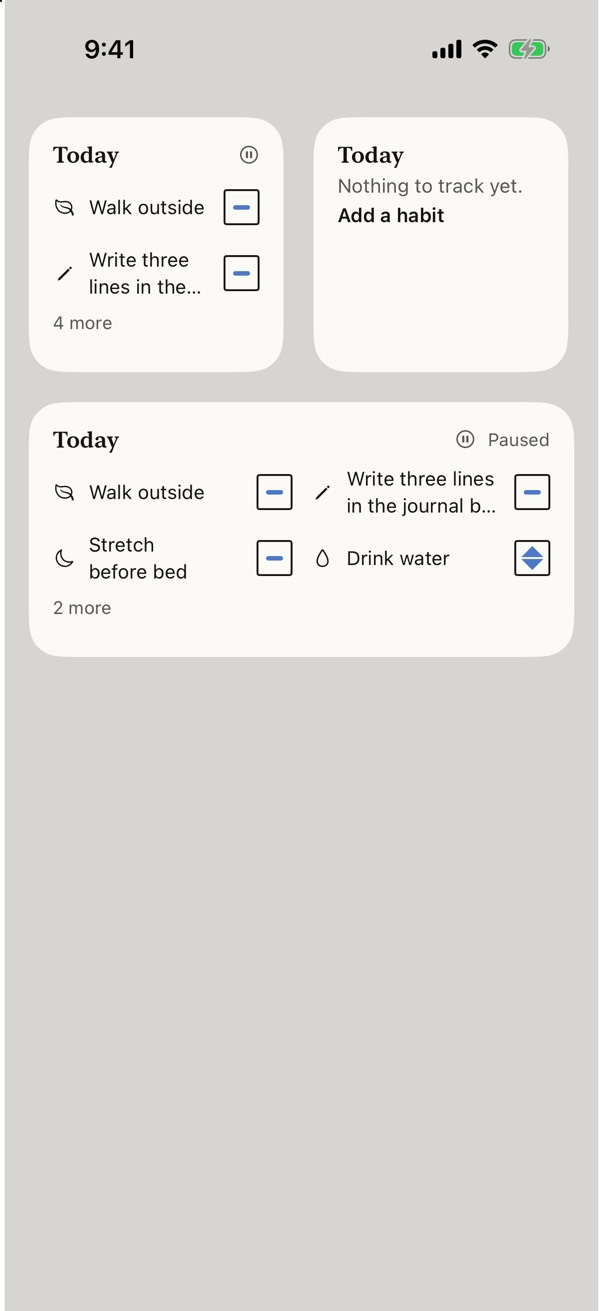
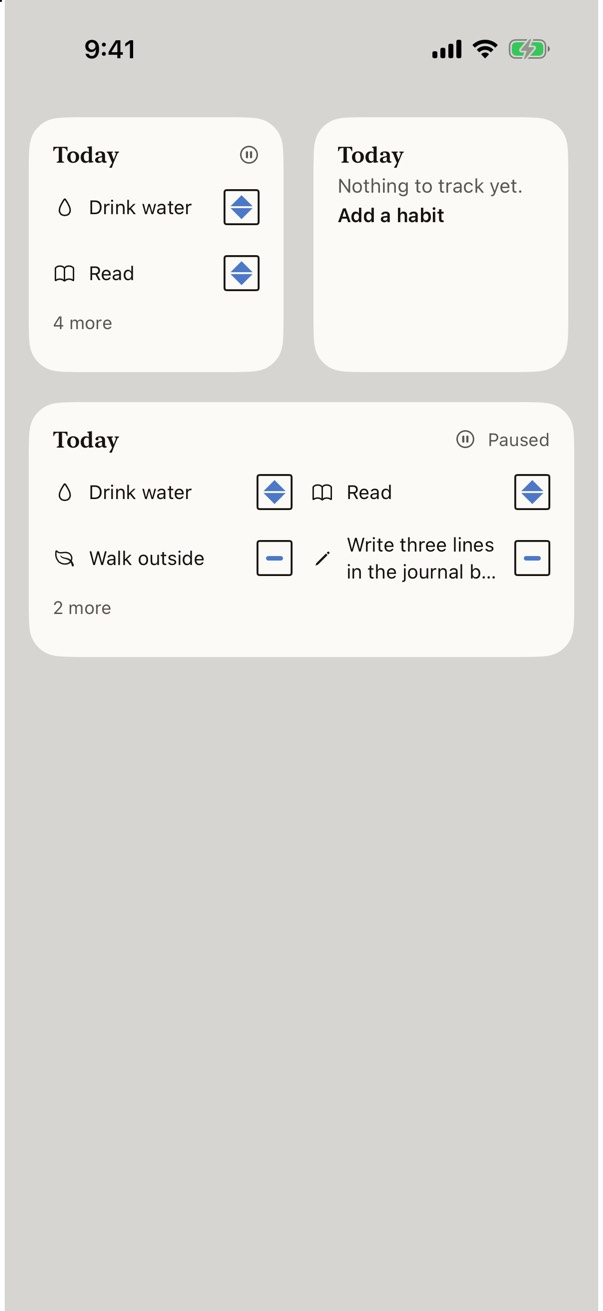
Choose the widget's rows once a day; keep a logged archive day done
- When rows must be dropped, the widget chooses them at the day's first
  draw and keeps them all day, so a logged row shows its mark and nothing
  moves under the next tap. Rows still to do, part done included, come
  first; while paused, Today's order. At accessibility sizes the small
  widget's more line sits in the header. Tested.
- Bring back starts the pause the day after the archive day when that day
  holds a log. Tested.
- Remove on a dated pause shows what it changes. Tested.
- "Days lose their pause" reads "days will no longer be paused".

From the neurodiversity expert, tired daily user and behavioural scientist
lenses, round two.

diff --git a/HabitKit/Tests/HabitKitTests/PausingTests.swift b/HabitKit/Tests/HabitKitTests/PausingTests.swift
@@ -229,6 +229,18 @@ struct PauseImpactTests {
         #expect(impact.daysGainPause == 8)
     }
 
+    /// Remove: every day of the pause loses it, and its logged days draw as they were.
+    @Test func removingCountsTheDaysThatLoseThePause() throws {
+        let context = try makeContext()
+        let habit = addHabit("Read", in: context)
+        try log(.tap, habit, day: today.adding(days: -5), context)
+        let impact = PauseImpact.of(old: today.adding(days: -6)...today.adding(days: -3), new: nil,
+                                    habits: [habit], otherShared: [], today: today)
+        #expect(impact.daysLosePause == 4)
+        #expect(impact.logsLosePause == 1)
+        #expect(impact.daysGainPause == 0)
+    }
+
     @Test func daysAnotherPauseCoversDoNotChange() throws {
         let context = try makeContext()
         let read = addHabit("Read", in: context)
@@ -259,6 +271,18 @@ struct BringBackPauseTests {
         let runs = habit.runSummary(today: today)
         #expect(runs.current == 8)
         #expect(runs.longest == 8)
+    }
+
+    /// Logged and archived the same evening: that day stays done, and the pause starts the day after.
+    @Test func aLoggedArchiveDayStaysDone() throws {
+        let context = try makeContext()
+        let habit = addHabit("Read", in: context)
+        let archivedOn = today.adding(days: -5)
+        try log(.tap, habit, day: archivedOn, context)
+        let span = try #require(PauseWriter.archivedSpan(of: habit, archivedOn: archivedOn, today: today))
+        #expect(span == archivedOn.adding(days: 1)...today.adding(days: -1))
+        try PauseWriter.pauseArchivedSpan(habit, span: span, in: context)
+        #expect(habit.state(on: archivedOn, today: today, sharedPauses: []) == .done)
     }
 
     @Test func archivedTodayHasNothingToPause() throws {
@@ -329,6 +353,46 @@ struct WidgetSnapshotTests {
         #expect(snapshot.shownRows(room: 4).map(\.name) == names)
         #expect(snapshot.shownRows(room: 2).map(\.name) == ["C", "D"])
         #expect(snapshot.shownRows(room: 3).map(\.name) == ["C", "D", "A"])
+        // The rows chosen at the day's first draw stay all day: C logged keeps its place and shows its mark.
+        let kept = snapshot.chosenRows(kept: [:])
+        try log(.tap, habits[2], day: today, context)
+        let after = WidgetSnapshot.make(habits: habits, sharedPauses: [], today: today)
+        #expect(after.shownRows(room: 2).map(\.name) == ["D", "A"])
+        #expect(after.shownRows(room: 2, kept: kept[2] ?? []).map(\.name) == ["C", "D"])
+        #expect(after.chosenRows(kept: kept)[2] == kept[2])
+        // A kept row that has gone, such as an archived habit, means the rows are chosen again.
+        let fewer = WidgetSnapshot.make(habits: [habits[0], habits[1], habits[3]], sharedPauses: [], today: today)
+        #expect(fewer.shownRows(room: 2, kept: kept[2] ?? []).map(\.name) == ["D", "A"])
+    }
+
+    /// While paused nothing is owed, so the rows keep Today's order.
+    @Test func whilePausedTheRowsKeepTodaysOrder() throws {
+        let context = try makeContext()
+        var habits: [Habit] = []
+        for (i, name) in ["A", "B", "C"].enumerated() {
+            let habit = addHabit(name, in: context)
+            habit.sortIndex = i
+            habits.append(habit)
+        }
+        try log(.tap, habits[0], day: today, context)
+        let pause = Pause(habit: nil, start: today, end: nil, reason: .gentle)
+        context.insert(pause)
+        let snapshot = WidgetSnapshot.make(habits: habits, sharedPauses: [pause], today: today)
+        #expect(snapshot.shownRows(room: 2).map(\.name) == ["A", "B"])
+    }
+
+    @Test func aPartDoneCountRanksWithWhatIsLeft() throws {
+        let context = try makeContext()
+        let water = addHabit("Water", .counted, target: 8, unit: "glasses", in: context)
+        water.sortIndex = 0
+        let read = addHabit("Read", in: context)
+        read.sortIndex = 1
+        let walk = addHabit("Walk", in: context)
+        walk.sortIndex = 2
+        try log(.add(3), water, day: today, context)
+        try log(.tap, read, day: today, context)
+        let snapshot = WidgetSnapshot.make(habits: [water, read, walk], sharedPauses: [], today: today)
+        #expect(snapshot.shownRows(room: 2).map(\.name) == ["Water", "Walk"])
     }
 
     @Test func noHabitsAtAll() throws {

diff --git a/HabitKit/Sources/HabitKit/Logic/Pausing.swift b/HabitKit/Sources/HabitKit/Logic/Pausing.swift
@@ -178,11 +178,14 @@ public enum PauseWriter {
         try context.save()
     }
 
-    /// Bring back, with the offer to pause the days a habit was archived: from the day it was archived
-    /// through yesterday. nil when it was archived today, so there is nothing to pause.
+    /// Bring back pauses the days a habit was archived: from the day it was archived through yesterday.
+    /// If the archive day holds a log, the pause starts the day after, so a done day stays done.
+    /// nil when there is nothing to pause.
+    @MainActor
     public static func archivedSpan(of habit: Habit, archivedOn: DayKey, today: DayKey) -> ClosedRange<DayKey>? {
+        let first = habit.total(on: archivedOn) > 0 ? archivedOn.adding(days: 1) : archivedOn
         let last = today.adding(days: -1)
-        return archivedOn <= last ? archivedOn...last : nil
+        return first <= last ? first...last : nil
     }
 
     @discardableResult
@@ -211,23 +214,26 @@ public struct PauseImpact: Equatable, Sendable {
 
     public static let none = PauseImpact(logsGainPause: 0, logsLosePause: 0, daysGainPause: 0, daysLosePause: 0)
 
-    /// Compares `old` (the saved dates, nil for a new pause) with `new`. Logged days count up to today:
-    /// nothing is logged after it yet. Days other pauses already cover do not change.
+    /// Compares `old` (the saved dates, nil for a new pause) with `new` (nil for Remove). Logged days count
+    /// up to today: nothing is logged after it yet. Days other pauses already cover do not change.
     @MainActor
-    public static func of(old: ClosedRange<DayKey>?, new: ClosedRange<DayKey>, habits: [Habit], otherShared: [Pause], today: DayKey) -> PauseImpact {
+    public static func of(old: ClosedRange<DayKey>?, new: ClosedRange<DayKey>?, habits: [Habit], otherShared: [Pause], today: DayKey) -> PauseImpact {
         var result = PauseImpact.none
+        guard let span = [old, new].compactMap({ $0 }).reduce(nil as ClosedRange<DayKey>?, { acc, r in
+            acc.map { min($0.lowerBound, r.lowerBound)...max($0.upperBound, r.upperBound) } ?? r
+        }) else { return result }
         func inRange(_ range: ClosedRange<DayKey>?, _ day: DayKey) -> Bool { range?.contains(day) ?? false }
         func coveredElsewhere(_ day: DayKey) -> Bool { otherShared.contains { $0.covers(day) } }
-        var calendarDay = min(old?.lowerBound ?? new.lowerBound, new.lowerBound)
-        let lastCalendarDay = max(old?.upperBound ?? new.upperBound, new.upperBound)
+        var calendarDay = span.lowerBound
+        let lastCalendarDay = span.upperBound
         while calendarDay <= lastCalendarDay {
             defer { calendarDay = calendarDay.adding(days: 1) }
             let was = inRange(old, calendarDay), will = inRange(new, calendarDay)
             guard was != will, !coveredElsewhere(calendarDay) else { continue }
             if will { result.daysGainPause += 1 } else { result.daysLosePause += 1 }
         }
-        let lowest = min(old?.lowerBound ?? new.lowerBound, new.lowerBound)
-        let highest = min(max(old?.upperBound ?? new.upperBound, new.upperBound), today)
+        let lowest = span.lowerBound
+        let highest = min(span.upperBound, today)
         guard lowest <= highest else { return result }
         for habit in habits where habit.isActive {
             var day = lowest

diff --git a/Shared/WidgetViews.swift b/Shared/WidgetViews.swift
@@ -6,6 +6,8 @@ import HabitKit
 struct TodayEntry: TimelineEntry {
     let date: Date
     let snapshot: WidgetSnapshot
+    /// The rows chosen at the day's first draw, by room size. Empty for a day not yet drawn.
+    var kept: [Int: [UUID]] = [:]
 }
 
 /// The widget's drawing, in Shared so the app can show it on a debug screen for screenshots.
@@ -64,6 +66,14 @@ struct TodayWidgetView: View {
         HStack(spacing: 6) {
             Text("Today").font(style.display(.subheadline, weight: .semibold)).foregroundStyle(style.text)
             Spacer(minLength: 4)
+            if stacked, hiddenCount > 0 {
+                // At accessibility sizes the small widget says how many more here, away from the mark.
+                Text(moreText(hiddenCount))
+                    .font(style.label(.caption))
+                    .foregroundStyle(style.secondary)
+                    .lineLimit(1)
+                    .accessibilityHidden(true)
+            }
             if entry.snapshot.paused {
                 // The small widget has room for the symbol only. VoiceOver reads "Paused".
                 Label("Paused", systemImage: "pause.circle")
@@ -81,6 +91,11 @@ struct TodayWidgetView: View {
         .accessibilityElement(children: .combine)
     }
 
+    private var hiddenCount: Int {
+        let all = entry.snapshot.rows.count
+        return all - shownCount(of: all)
+    }
+
     /// The small widget at accessibility sizes: one row, the name above its mark.
     private var stacked: Bool { typeSize.isAccessibilitySize && family == .systemSmall }
 
@@ -91,7 +106,8 @@ struct TodayWidgetView: View {
     @ViewBuilder
     private func content(_ style: ResolvedStyle) -> some View {
         let all = entry.snapshot.rows
-        let rows = entry.snapshot.shownRows(room: shownCount(of: all.count))
+        let room = shownCount(of: all.count)
+        let rows = entry.snapshot.shownRows(room: room, kept: entry.kept[room] ?? [])
         let more = all.count - rows.count
         if !entry.snapshot.hasHabits {
             VStack(alignment: .leading, spacing: 4) {
@@ -157,14 +173,6 @@ struct WidgetRow: View {
             HStack(spacing: 8) {
                 MarkView(state: row.state, isToday: true, showsPlus: false, size: 24)
                     .widgetAccentable()
-                // In the stacked row, "N more" shares the mark's line, so it fits the small widget.
-                if stacked, let more = moreLine {
-                    Text(more)
-                        .font(style.label(.caption))
-                        .foregroundStyle(style.secondary)
-                        .dynamicTypeSize(...DynamicTypeSize.xxxLarge)
-                        .accessibilityHidden(true)
-                }
             }
         }
         .frame(minHeight: 44)

diff --git a/App/You/PauseDatesView.swift b/App/You/PauseDatesView.swift
@@ -250,13 +250,17 @@ struct PauseDatesForm: View {
             if running {
                 Text("Today stays paused. Every habit starts again tomorrow.")
             } else {
-                Text("Its days will no longer be paused. You can undo this.")
+                VStack(alignment: .leading, spacing: 8) {
+                    ForEach(impactLines(nil, clock: clock), id: \.self) { Text($0) }
+                    Text("You can undo this.")
+                }
             }
         }
         .listRowBackground(style.paper)
     }
 
-    private func impactLines(_ range: ClosedRange<DayKey>, clock: HabitClock) -> [String] {
+    /// What saving, or with `range` nil removing, would change.
+    private func impactLines(_ range: ClosedRange<DayKey>?, clock: HabitClock) -> [String] {
         let old = pause.map { $0.start...max($0.start, $0.end ?? clock.today) }
         let others = shared.filter { $0.id != pause?.id }
         let impact = PauseImpact.of(old: old, new: range, habits: habits, otherShared: others, today: clock.today)
@@ -272,7 +276,11 @@ struct PauseDatesForm: View {
                 lines.append(String(localized: "\(impact.daysGainPause) days gain a pause.", comment: "Pause for dates form, when changing dates. The number is calendar days."))
             }
             if impact.daysLosePause > 0 {
-                lines.append(String(localized: "\(impact.daysLosePause) days lose their pause.", comment: "Pause for dates form, when changing dates. The number is calendar days."))
+                lines.append(String(localized: "\(impact.daysLosePause) days will no longer be paused.", comment: "Pause for dates form, when changing or removing dates. The number is calendar days."))
+            }
+            // Days before today that lose their pause may have no log, so a run through them may get shorter.
+            if let old, impact.daysLosePause > 0, old.lowerBound < clock.today, range.map({ old.lowerBound < $0.lowerBound || old.upperBound > $0.upperBound }) ?? true {
+                lines.append(String(localized: "A run through these days may get shorter."))
             }
         }
         return lines

diff --git a/HabitKit/Sources/HabitKit/Logic/WidgetSnapshot.swift b/HabitKit/Sources/HabitKit/Logic/WidgetSnapshot.swift
@@ -39,12 +39,23 @@ public struct WidgetSnapshot: Equatable, Sendable {
         shownDay == today.rawValue && shownTotal == currentTotal
     }
 
-    /// The rows that fit in `room`. When all fit, Today's order. When some must be dropped, rows not yet
-    /// logged take the places first, each group in Today's order, so the widget keeps prompting what is left.
-    public func shownRows(room: Int) -> [Row] {
+    /// The rows that fit in `room`. When all fit, Today's order. When some must be dropped, the rows are
+    /// chosen at the day's first draw and `kept` all day, so a logged row stays and shows its mark, and
+    /// nothing moves under the next tap. At that first draw, rows still to do (nothing logged, or part done)
+    /// take the places first, each group in Today's order. While paused nothing is owed: Today's order.
+    public func shownRows(room: Int, kept: [UUID] = []) -> [Row] {
         guard rows.count > room else { return rows }
-        let open = rows.filter { $0.total <= 0 }, logged = rows.filter { $0.total > 0 }
-        return Array((open + logged).prefix(room))
+        let byID = Dictionary(rows.map { ($0.id, $0) }, uniquingKeysWith: { a, _ in a })
+        let still = kept.compactMap { byID[$0] }
+        if still.count == room { return still }
+        if paused { return Array(rows.prefix(room)) }
+        let isToDo: (Row) -> Bool = { $0.total <= 0 || $0.state == .partDone }
+        return Array((rows.filter(isToDo) + rows.filter { !isToDo($0) }).prefix(room))
+    }
+
+    /// The rows chosen for each room size, 1 to 4, given what was kept earlier today.
+    public func chosenRows(kept: [Int: [UUID]]) -> [Int: [UUID]] {
+        Dictionary(uniqueKeysWithValues: (1...4).map { room in (room, shownRows(room: room, kept: kept[room] ?? []).map(\.id)) })
     }
 
     /// The widget's mark size. Its diamond (68% of the mark) sits well above the 12 point jump in the cut.

diff --git a/Shared/WidgetRows.swift b/Shared/WidgetRows.swift
@@ -1,0 +1,24 @@
+import Foundation
+import HabitKit
+
+/// The widget's rows for today, chosen at the day's first draw and kept all day. Stored in the shared
+/// settings by day, so a redraw after a tap keeps every row where it was. See `WidgetSnapshot.shownRows`.
+enum WidgetRows {
+    private static let dayKey = "widgetRowsDay"
+    private static let rowsKey = "widgetRows"
+
+    static func kept(on day: DayKey) -> [Int: [UUID]] {
+        let defaults = SharedStore.defaults
+        guard defaults.integer(forKey: dayKey) == day.rawValue,
+              let stored = defaults.dictionary(forKey: rowsKey) as? [String: [String]] else { return [:] }
+        var result: [Int: [UUID]] = [:]
+        for (room, ids) in stored { if let room = Int(room) { result[room] = ids.compactMap(UUID.init(uuidString:)) } }
+        return result
+    }
+
+    static func keep(_ rows: [Int: [UUID]], on day: DayKey) {
+        let defaults = SharedStore.defaults
+        defaults.set(day.rawValue, forKey: dayKey)
+        defaults.set(Dictionary(uniqueKeysWithValues: rows.map { (String($0.key), $0.value.map(\.uuidString)) }), forKey: rowsKey)
+    }
+}

diff --git a/Widget/HabitWidget.swift b/Widget/HabitWidget.swift
@@ -49,8 +49,14 @@ struct TodayProvider: TimelineProvider {
         let habits = (try? context.fetch(FetchDescriptor<Habit>())) ?? []
         let shared = (try? PauseWriter.sharedPauses(in: context)) ?? []
         let clock = SharedStore.clock
-        return WidgetSnapshot.entryDates(clock: clock).map { date in
-            TodayEntry(date: date, snapshot: WidgetSnapshot.make(habits: habits, sharedPauses: shared, today: clock.dayKey(for: date)))
+        return WidgetSnapshot.entryDates(clock: clock).enumerated().map { index, date in
+            let day = clock.dayKey(for: date)
+            let snapshot = WidgetSnapshot.make(habits: habits, sharedPauses: shared, today: day)
+            // Today's rows are chosen once and kept. A day ahead chooses its own at its first draw.
+            guard index == 0 else { return TodayEntry(date: date, snapshot: snapshot) }
+            let kept = snapshot.chosenRows(kept: WidgetRows.kept(on: day))
+            WidgetRows.keep(kept, on: day)
+            return TodayEntry(date: date, snapshot: snapshot, kept: kept)
         }
     }
 }

diff --git a/AppUITests/PausingUITests.swift b/AppUITests/PausingUITests.swift
@@ -11,12 +11,14 @@ final class PausingUITests: XCTestCase {
         app.launch()
     }
 
-    /// Pause everything acts at once, says so at the top, and the same place offers Undo pause.
+    /// Pause everything acts at once, says so at the top, and the line there offers Undo pause.
     func testPauseEverythingFromTodayAndUndoIt() {
         let pause = app.buttons["pause-everything"]
         XCTAssertTrue(pause.waitForExistence(timeout: 5))
         while !pause.isHittable { app.swipeUp() }
         pause.tap()
+        // The bottom button goes, so Undo pause is never shown twice.
+        XCTAssertFalse(app.buttons["pause-everything"].waitForExistence(timeout: 1))
         XCTAssertTrue(app.staticTexts.matching(NSPredicate(format: "label BEGINSWITH %@", "Everything is paused.")).firstMatch.waitForExistence(timeout: 2))
         let line = app.buttons["pause-line-button"]
         while !line.isHittable { app.swipeDown() }

diff --git a/docs/decisions.md b/docs/decisions.md
@@ -285,11 +285,11 @@ One entry per decision that changed the brief. Each says what changed and why, i
 
 **Milestone 3 lens round one, 18 November 2026.**
 - Days to come draw nothing, paused or not. An open pause drew a dash on every day left in the month, which read as a forecast of giving up. Asked for by the behavioural scientist.
-- Bring back always pauses the days the habit was archived, up to yesterday, and says so in its Undo line. The question is gone. Nothing could be logged while the habit was archived, so the pause only helps, and the other answer could only break a run. This replaces the offer in `docs/spec.md`, open decision 6. Asked for by the behavioural scientist.
-- The widget keeps Today's order. When rows must be dropped, habits not yet logged take the places first, and a line says how many more there are. The tired daily user asked for the line, so three done marks never read as the whole day. The behavioural scientist asked that the widget keep prompting what is left. This one rule meets both.
+- Bring back always pauses the days the habit was archived, up to yesterday, and says so in its Undo line. If the archive day holds a log, the pause starts the day after, so a done day stays done (neurodiversity expert). The question is gone. Nothing could be logged while the habit was archived, so the pause only helps, and the other answer could only break a run. This replaces the offer in `docs/spec.md`, open decision 6. Asked for by the behavioural scientist.
+- The widget keeps Today's order when every row fits. When rows must be dropped, they are chosen at the day's first draw and kept all day: rows still to do (nothing logged, or part done) take the places first, and a line says how many more there are. While paused, Today's order. The tired daily user asked for the line, so done marks never read as the whole day. The behavioural scientist asked that the widget keep prompting what is left. In round two both found that choosing again after every tap moved a row under the thumb, so a second tap logged a different habit and the logged mark was never seen. The neurodiversity expert proposed choosing once a day, which meets all three. `WidgetSnapshot.shownRows`, `Shared/WidgetRows.swift`.
 - The small widget's paused header is the symbol alone. At accessibility sizes the small widget shows one row and the medium two, the header keeps to one line, and the empty widget shows "Add a habit" alone. Asked for by the tired daily user.
 - While paused, the pause line at the top holds the one Undo pause or Resume tomorrow button. The bottom "Pause everything" button goes, so the same button never shows twice. Asked for by the tired daily user.
 - The dated pause list heads its first group "Now and coming" and no longer marks pauses from Pause everything. Every pause in the list pauses every habit. Asked for by the tired daily user.
 - A counted row logged on a paused day says "Logged while paused", as a yes-or-no row does. Asked for by the behavioural scientist.
 - VoiceOver hears "Resumes tomorrow.", "Pause undone." and "Paused again.", and nothing when a save fails. A paused row's name carries the same value as its control. The dates form's impact lines are the Save button's hint. The pause line's full sentence is read at every size. Asked for by the accessibility expert.
-
+- Remove on a dated pause shows what it changes: how many days will no longer be paused, how many logged days draw as before, and, for days before today, "A run through these days may get shorter." "Days lose their pause" now reads "days will no longer be paused." Asked for by the neurodiversity expert.

diff --git a/docs/findings.md b/docs/findings.md
@@ -50,6 +50,9 @@ Status is one of: owed (with the milestone), gate (a test that must pass), guess
 | 13 | `WidgetLogIntent.perform` has no test of its own: only the rule it calls (`accepts`) is tested. The owner's widget gate covers it on a device | QA, 18 Nov. `Shared/WidgetLogIntent.swift` |
 | 13 | The Pause for dates impact line counts active habits only. An archived habit's days change too, unseen | QA, 18 Nov. `Pausing.swift`, `PauseImpact.of` |
 | 13 | No UI test covers the dates form, Keep paused, the Bring back dialog or Remove with Undo. Kit tests cover the rules | QA, 18 Nov. `AppUITests` |
+| Product owner | No way to pause one habit for past dates. "Pause this habit" starts today, and a dated pause covers every habit, so pausing after the fact for one habit costs the others' done marks. Time blindness means a pause is often seen as needed only afterwards | Neurodiversity, 18 Nov. `PauseDatesView.swift`, `HabitFormView.swift` pauseSection |
+| 4 | Habit detail, Month and Year, for a habit brought back after a long archive: the archived span now draws as a band of paused dashes where it drew nothing. Check it does not make the gap louder than silence | Neurodiversity, 18 Nov. No screenshot yet. `AppModel.bringBack` |
+| 4 | The tired daily user and the behavioural scientist used both rounds before the widget's rows became chosen once a day. Their concerns (a row moving under the thumb, prompting what is left) are what the rule answers. They see it at the next stop | `WidgetSnapshot.shownRows` |
 | 13 | History month with many habits has no screenshot | `m2-hist-many.png` is Week only |
 | 4 | Marks in a History row are small beside text at the largest size. If the cells grow, lift the cap on the week header letters (`.dynamicTypeSize(...xxxLarge)` in `HistoryWeekHeader`) | `ax-history.png`, `ax5-history-paper.jpg` |
 | 13 | No screen was checked on a phone smaller than 393 by 852 points | `sheet-ax.png` |
